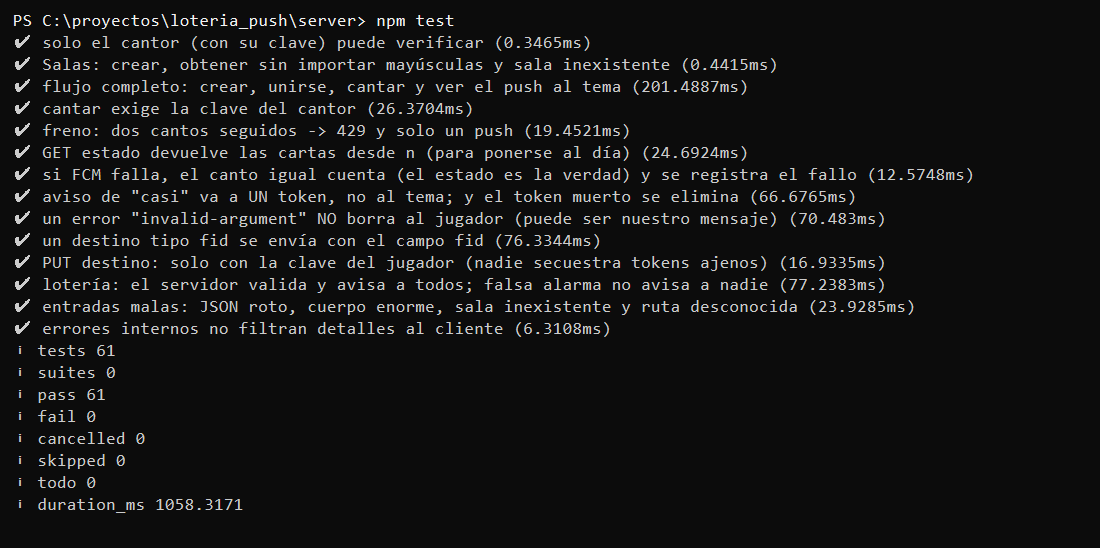
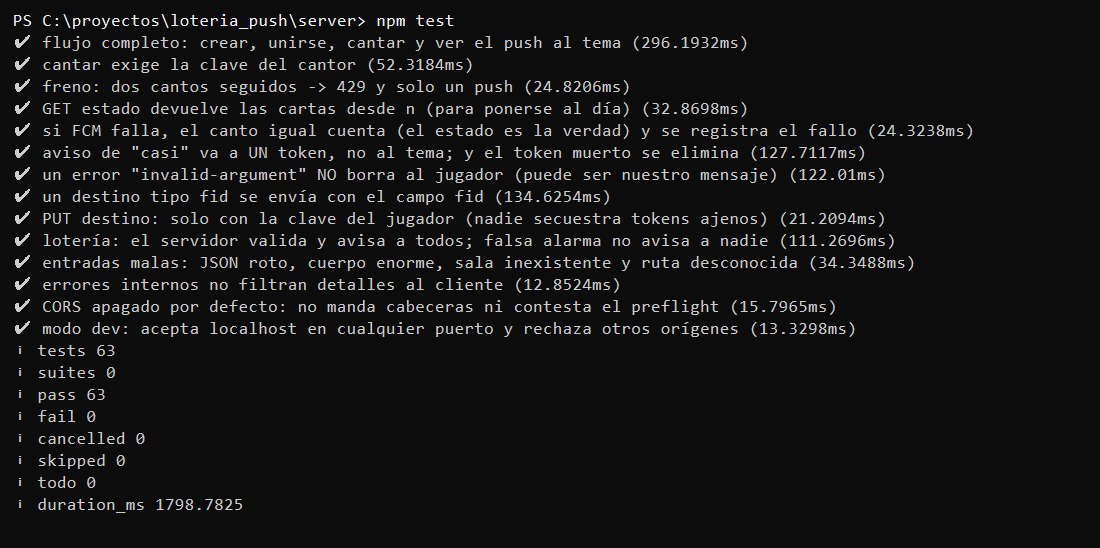
Correr la demo con flutter run en Edge

Changed region(s): [[0.0309, 0.062, 0.8964, 0.6204], [0.1545, 0.8996, 0.2164, 0.9307]]

diff --git a/server/servidor.js b/server/servidor.js
@@ -36,7 +36,24 @@ function leerJson(req) {
   });
 }
 
-function crearManejador({ salas = new Salas(), enviador, ahora = () => Date.now(), log = () => {} } = {}) {
+/**
+ * CORS solo para desarrollo: con `permitirLocal` se aceptan páginas servidas desde
+ * localhost/127.0.0.1 en cualquier puerto (por ejemplo `flutter run -d edge`).
+ * Sin esa opción no se manda ninguna cabecera CORS, igual que antes.
+ */
+const ORIGEN_LOCAL = /^http:\/\/(localhost|127\.0\.0\.1)(:\d{1,5})?$/;
+function cabecerasCors(req, permitirLocal) {
+  const origen = req.headers.origin;
+  if (!permitirLocal || !origen || !ORIGEN_LOCAL.test(origen)) return {};
+  return {
+    'access-control-allow-origin': origen,
+    'access-control-allow-methods': 'GET, POST, PUT, OPTIONS',
+    'access-control-allow-headers': 'content-type, x-cantor-clave, x-jugador-clave',
+    vary: 'Origin',
+  };
+}
+
+function crearManejador({ salas = new Salas(), enviador, ahora = () => Date.now(), log = () => {}, permitirLocal = false } = {}) {
   /** Envía sin romper la petición: el estado del juego es la verdad; el push es un aviso. */
   async function enviarSeguro(mensaje, { sala, jugador } = {}) {
     try {
@@ -103,15 +120,22 @@ function crearManejador({ salas = new Salas(), enviador, ahora = () => Date.now(
   }
 
   return async (req, res) => {
+    const cors = cabecerasCors(req, permitirLocal);
+    // Pregunta previa (preflight) del navegador: solo se contesta si el origen está permitido.
+    if (req.method === 'OPTIONS' && cors['access-control-allow-origin']) {
+      res.writeHead(204, cors);
+      res.end();
+      return;
+    }
     try {
       const [estado, cuerpo] = await atender(req, res);
-      res.writeHead(estado, { 'content-type': 'application/json; charset=utf-8' });
+      res.writeHead(estado, { 'content-type': 'application/json; charset=utf-8', ...cors });
       res.end(JSON.stringify(cuerpo));
     } catch (err) {
       const conocido = err instanceof ErrorJuego;
       if (!conocido) log(`error interno: ${err && err.stack}`);
       // Al cliente solo le damos mensajes seguros; los detalles internos se quedan en el log.
-      const cabeceras = { 'content-type': 'application/json; charset=utf-8' };
+      const cabeceras = { 'content-type': 'application/json; charset=utf-8', ...cors };
       if (conocido && err.estado === 413) cabeceras.connection = 'close';
       res.writeHead(conocido ? err.estado : 500, cabeceras);
       res.end(JSON.stringify({ error: conocido ? err.codigo : 'ERROR_INTERNO', mensaje: conocido ? err.message : 'Error interno' }));
@@ -128,8 +152,10 @@ if (require.main === module) {
   const real = process.env.FCM_REAL === '1';
   const enviador = real ? crearEnviadorFcm({ dryRun: process.env.FCM_DRY_RUN === '1' }) : crearEnviadorConsola(log);
   const puerto = Number(process.env.PORT ?? 8080);
-  crearServidor({ enviador, log }).listen(puerto, () => {
-    log(`Cantor listo en http://localhost:${puerto} (${real ? 'FCM real' : 'push simulado en consola'}; intervalo mínimo ${INTERVALO_MIN_CANTO_MS} ms)`);
+  // `npm run dev` (node servidor.js --dev) acepta la app web de flutter run desde localhost.
+  const permitirLocal = process.argv.includes('--dev');
+  crearServidor({ enviador, log, permitirLocal }).listen(puerto, () => {
+    log(`Cantor listo en http://localhost:${puerto} (${real ? 'FCM real' : 'push simulado en consola'}; intervalo mínimo ${INTERVALO_MIN_CANTO_MS} ms${permitirLocal ? '; CORS para localhost' : ''})`);
   });
 }
 

diff --git a/server/test/servidor.test.js b/server/test/servidor.test.js
@@ -12,7 +12,7 @@ function fuenteDeterminista() {
 }
 
 /** Arranca un servidor real en un puerto libre, con un enviador falso que registra todo. */
-async function levantar({ falla = () => null } = {}) {
+async function levantar({ falla = () => null, permitirLocal = false } = {}) {
   const enviados = [];
   const logs = [];
   let reloj = 1_000_000;
@@ -25,9 +25,10 @@ async function levantar({ falla = () => null } = {}) {
     },
   };
   const salas = new Salas({ fuente: fuenteDeterminista() });
-  const srv = crearServidor({ salas, enviador, ahora: () => reloj, log: (l) => logs.push(l) });
+  const srv = crearServidor({ salas, enviador, ahora: () => reloj, log: (l) => logs.push(l), permitirLocal });
   await new Promise((r) => srv.listen(0, r));
   const base = `http://127.0.0.1:${srv.address().port}`;
+  const crudo = (metodo, ruta, cabeceras = {}) => fetch(base + ruta, { method: metodo, headers: cabeceras });
   const http = async (metodo, ruta, cuerpo, cabeceras = {}) => {
     const res = await fetch(base + ruta, {
       method: metodo,
@@ -37,7 +38,7 @@ async function levantar({ falla = () => null } = {}) {
     return { estado: res.status, json: await res.json() };
   };
   return {
-    http, enviados, logs, salas,
+    http, crudo, enviados, logs, salas,
     avanzar: (ms) => { reloj += ms; },
     cerrar: () => new Promise((r) => srv.close(r)),
   };
@@ -226,4 +227,37 @@ test('errores internos no filtran detalles al cliente', async () => {
     assert.equal(JSON.stringify(r.json).includes('contraseña'), false);
     assert.ok(ctx.logs.some((l) => l.includes('contraseña')), 'pero sí queda en el log del servidor');
   } finally { await ctx.cerrar(); }
+});
+
+test('CORS apagado por defecto: no manda cabeceras ni contesta el preflight', async () => {
+  const ctx = await levantar();
+  try {
+    const r = await ctx.crudo('POST', '/salas', { origin: 'http://localhost:5173' });
+    assert.equal(r.status, 201);
+    assert.equal(r.headers.get('access-control-allow-origin'), null);
+    const pre = await ctx.crudo('OPTIONS', '/salas', { origin: 'http://localhost:5173' });
+    assert.notEqual(pre.status, 204);
+  } finally {
+    await ctx.cerrar();
+  }
+});
+
+test('modo dev: acepta localhost en cualquier puerto y rechaza otros orígenes', async () => {
+  const ctx = await levantar({ permitirLocal: true });
+  try {
+    const pre = await ctx.crudo('OPTIONS', '/salas/ABC12/cantar', {
+      origin: 'http://localhost:5173',
+      'access-control-request-method': 'POST',
+      'access-control-request-headers': 'x-cantor-clave',
+    });
+    assert.equal(pre.status, 204);
+    assert.equal(pre.headers.get('access-control-allow-origin'), 'http://localhost:5173');
+    assert.match(pre.headers.get('access-control-allow-headers'), /x-cantor-clave/);
+    const ok = await ctx.crudo('POST', '/salas', { origin: 'http://127.0.0.1:61234' });
+    assert.equal(ok.headers.get('access-control-allow-origin'), 'http://127.0.0.1:61234');
+    const ajeno = await ctx.crudo('POST', '/salas', { origin: 'https://sitio-malo.com' });
+    assert.equal(ajeno.headers.get('access-control-allow-origin'), null);
+  } finally {
+    await ctx.cerrar();
+  }
 });

diff --git a/app/lib/main_demo.dart b/app/lib/main_demo.dart
@@ -11,15 +11,21 @@ import 'presentacion/vms.dart';
 
 /// Arranque de demostración SIN Firebase, para probar la app en el navegador.
 ///
-/// Usa el servidor real (mismo origen que la página) y un puerto de push que se
-/// comporta como "permiso denegado". Es la degradación elegante del manual: sin
-/// push, la app sigue jugando y le pregunta al cantor cada 5 s.
+/// Usa el servidor real y un puerto de push que se comporta como "permiso
+/// denegado". Es la degradación elegante del manual: sin push, la app sigue
+/// jugando y le pregunta al cantor cada 5 s.
 ///
-///   flutter run -d chrome -t lib/main_demo.dart
+/// Con el cantor en modo dev (`npm run dev` en server/):
+///   flutter run -d edge -t lib/main_demo.dart
+/// La dirección del cantor se puede cambiar con
+///   --dart-define=CANTOR=http://localhost:8080
+const _cantor = String.fromEnvironment('CANTOR', defaultValue: 'http://localhost:8080');
+
 Future<void> main() async {
   WidgetsFlutterBinding.ensureInitialized();
   final almacen = AlmacenPrefs(await SharedPreferences.getInstance());
-  final api = ApiHttp(Uri.base.origin);
+  // CANTOR=mismo-origen sirve cuando la página y el cantor salen del mismo lugar (proxy).
+  final api = ApiHttp(_cantor == 'mismo-origen' ? Uri.base.origin : _cantor);
   final controlador = ControladorPartida(api: api, push: PuertoSinPush(), almacen: almacen);
   runApp(AppLoteria(vm: JuegoVm(controlador), crearCantor: () => CantorVm(api)));
 }

diff --git a/README.md b/README.md
@@ -184,7 +184,7 @@ Cada ronda corre el archivo de pruebas de un módulo, primero en **rojo** (falla
 
 ![App 4 verde](evidencia/tdd/r4_verde.png)
 
-Al final, `node --test` pasa las 61 pruebas del servidor y `flutter test` pasa las 52 de la app (capturas en la sección de evidencia).
+Al final, `node --test` pasa las 63 pruebas del servidor y `flutter test` pasa las 52 de la app (capturas en la sección de evidencia).
 
 ## Carpetas
 
@@ -235,28 +235,32 @@ app/
 
 ## Cómo correrlo
 
-El servidor:
+Se usan dos terminales. En la primera va el servidor (el cantor) en modo desarrollo:
 
 ```
 cd server
 npm test
-npm start
+npm run dev
 ```
 
-La app sin Firebase (demo en el navegador):
+`npm run dev` es igual que `npm start`, pero deja que la app web de `flutter run` (que sale en otro puerto de `localhost`) le hable al cantor (CORS solo para `localhost`). En `npm start` no se manda ninguna cabecera CORS.
+
+En la segunda va la app sin Firebase (demo en el navegador):
 
 ```
 cd app
 flutter pub get
 flutter test
-flutter run -d chrome -t lib/main_demo.dart
+flutter run -d edge -t lib/main_demo.dart
 ```
+
+La demo busca al cantor en `http://localhost:8080`; si está en otra dirección se cambia con `--dart-define=CANTOR=http://...`. Para jugar se abren dos pestañas: en una se crea la sala como cantor y en la otra se une el jugador con el código.
 
 Para el push de verdad hace falta un proyecto de Firebase propio: en `app/` se corre `flutterfire configure` (genera `lib/firebase_options.dart`, que no viene en el repo) y el servidor se arranca con `FCM_REAL=1` y `GOOGLE_APPLICATION_CREDENTIALS` apuntando al JSON de la cuenta de servicio. Ese JSON es secreto y nunca se sube al repositorio (está en el `.gitignore`).
 
 ## Evidencia
 
-Resultado de `npm test` en el servidor (61 pruebas: 6 de la baraja, 16 de las líneas, 9 de los mensajes, 18 de la sala y 12 del servidor HTTP):
+Resultado de `npm test` en el servidor (63 pruebas: 6 de la baraja, 16 de las líneas, 9 de los mensajes, 18 de la sala y 14 del servidor HTTP, 2 de ellas del modo `dev` con CORS para `localhost`):
 
 ![node --test](evidencia/node_test.png)
 
